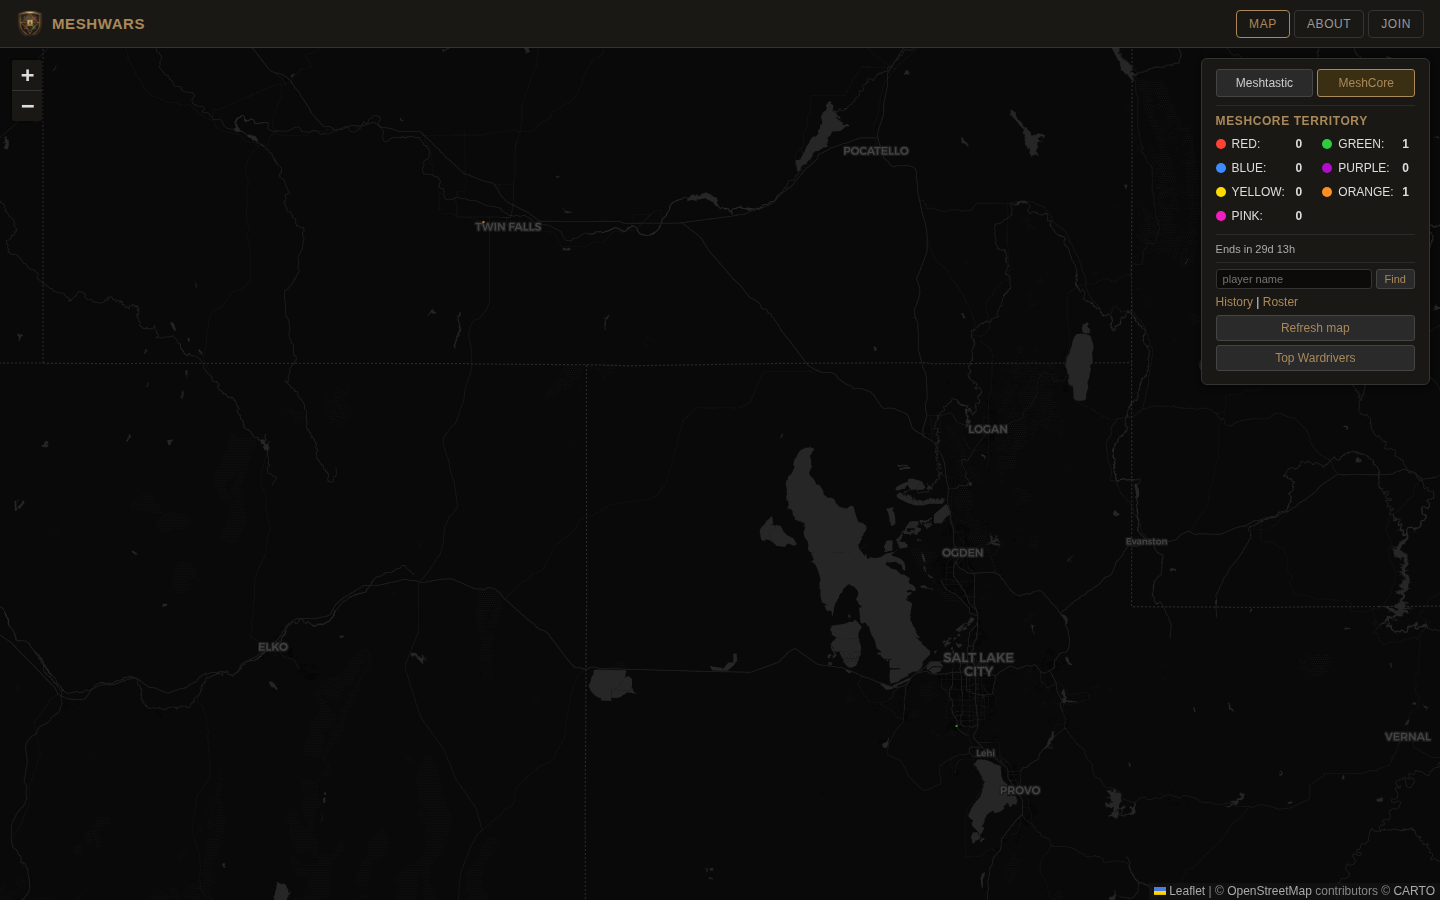
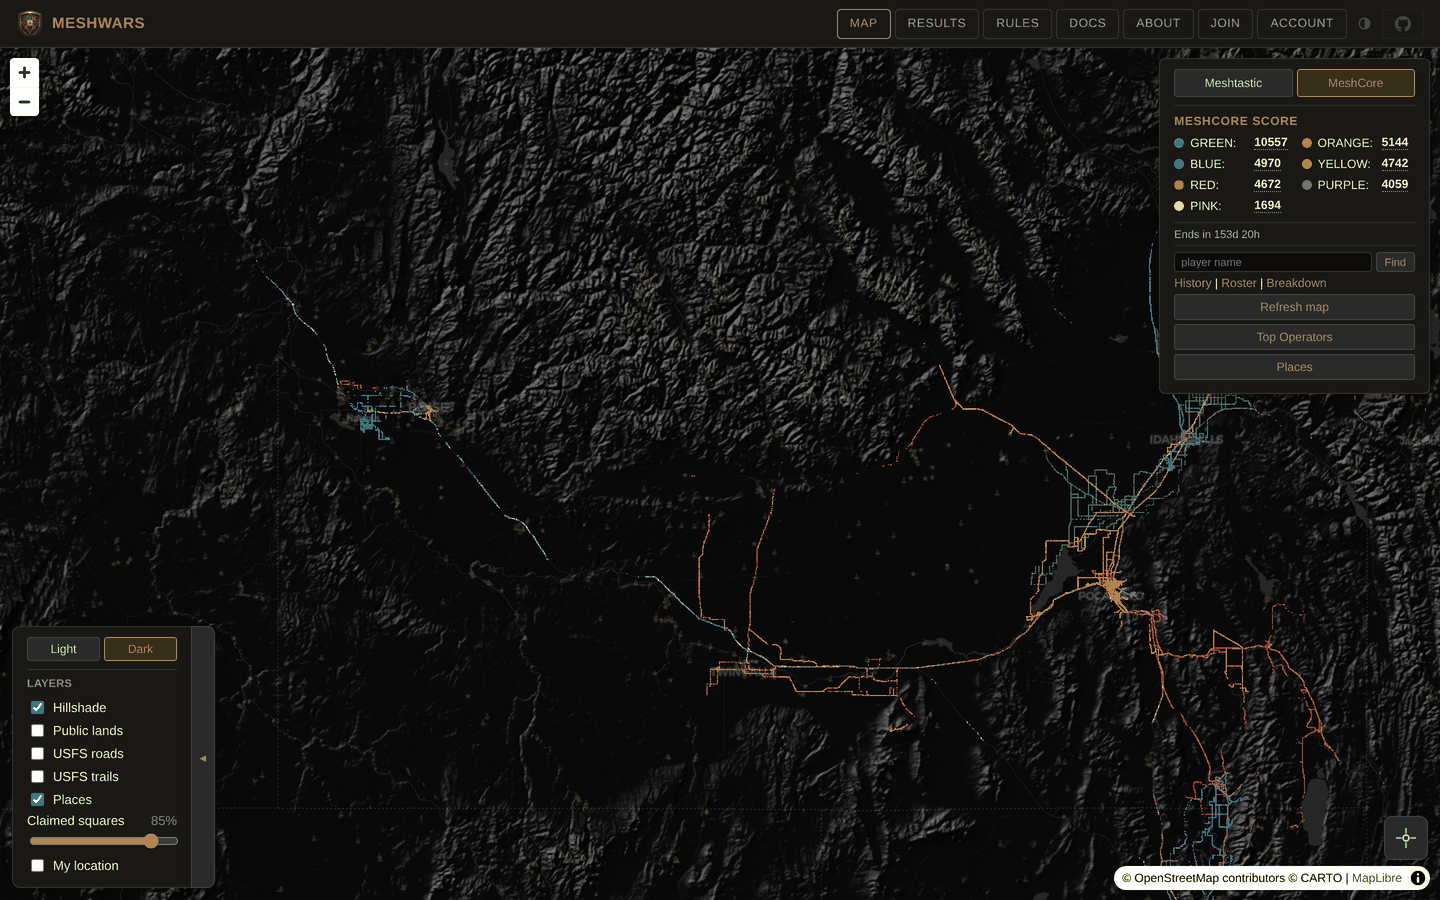
docs: screenshots that show the board as it is now
The README's hero image predated most of the project. It showed an
empty board -- every team on zero -- rendered by Leaflet, with a
three-item nav and a "Top Wardrivers" button, none of which exist any
more. First thing anyone sees, and none of it was true.

Replaced with the live MeshCore board across southern Idaho: real
team-coloured territory tracing the roads people have actually driven,
over the shaded terrain, with the current interface.

Two new images carry what the text now claims:

places-park-boundary.png -- Yosemite's real boundary crossing the view,
summits as triangles and landmarks as stars. This is the unclipping
work made visible: the park used to credit inside a 12km window around
one arbitrary interior point, and Tioga Pass, Hetch Hetchy and the
valley floor are 40 to 60 km apart.

places-worldwide.png -- Munich, with German park boundaries along the
Isar. "The board is worldwide" is easy to write and easy to doubt; this
shows it, and shows honestly that coverage outside the US is
OpenStreetMap's coverage.

Captured at 2x and downsampled to 1440x900 to match the existing
images. Left at 256 colours: 128 was smaller but flattened the team
score dots to grey, which is the one bit of colour those panels have.

Claude-Session: https://claude.ai/code/session_01CMjXQP52DojzR5J7SgK2rj

diff --git a/README.md b/README.md
@@ -4,7 +4,7 @@
 
 A territory control game played over mesh radio. Seven teams claim roughly 300 meter squares of ground by reaching the mesh from them.
 
-![MeshCore board](docs/img/map.png)
+![The MeshCore board across southern Idaho — team-coloured squares trace the roads players have driven, over shaded terrain](docs/img/map.png)
 
 ## What it is
 
@@ -39,6 +39,14 @@ Effort decides the value. A park or landmark inside a city is worth 5; out in th
 **The board is worldwide.** It holds a little over two million places, drawn from [SOTA](https://sotadata.org.uk) summits, [POTA](https://pota.app) parks, the US government's PAD-US protected-areas database, and OpenStreetMap. Coverage follows OpenStreetMap's own mapping density rather than anything MeshWars decides, so it is dense across Europe, Japan and North America and thin where OSM itself is thin.
 
 Nowhere shows all of them at once. Places rotate weekly, and how many are live in an area scales with how crowded it is — from 15 in a quiet cell up to 60 in a dense city, spaced at least a mile apart. A player sees a handful worth driving to, not a wall of markers.
+
+![Yosemite's real boundary crossing the map, with summits marked as triangles and landmarks as stars](docs/img/places-park-boundary.png)
+
+*A park is stored as its real boundary, so it credits from any of its entrances — Tioga Pass, Hetch Hetchy and the valley floor are 40 to 60 km apart and all count as Yosemite. Triangles are summits, stars are landmarks.*
+
+![Munich, with German park boundaries and place markers](docs/img/places-worldwide.png)
+
+*The same board in Munich. Coverage outside the US comes from OpenStreetMap, so it is dense wherever OSM itself is dense.*
 
 ## Net check-ins
 

diff --git a/docs/features/places.md b/docs/features/places.md
@@ -7,6 +7,10 @@ status: deployed to production (CT 119) since commit 90a0ea2 — schema, seed, r
 
 What follows is the design conversation written down so it does not have to be had again, plus what the build actually does where that differs from the plan.
 
+![Yosemite's boundary on the board, summits as triangles and landmarks as stars](../img/places-park-boundary.png)
+
+*What it looks like in production: a park stored as its real boundary rather than a window around one point, so it credits from any entrance.*
+
 ## The idea
 
 Every square is currently worth the same; the map is graph paper with no features. Named places — summits, parks, landmarks — are destinations worth more than the cell they sit in. None of the lists need inventing: Summits on the Air and Parks on the Air are curated ham-radio programmes, and landmarks come from OpenStreetMap.
